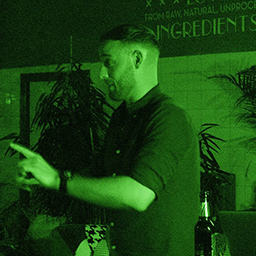
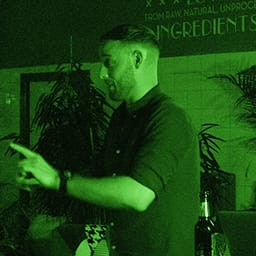
Optimiase images

diff --git a/_layouts/default.html b/_layouts/default.html
@@ -6,6 +6,10 @@
 
   <title>harry.is</title>
 
+  {% if page.main %}
+    <link rel="preload" as="image" href="{{ page.main }}" />
+  {% endif %}
+
   <script>
     LUX=(function(){var a=("undefined"!==typeof(LUX)&&"undefined"!==typeof(LUX.gaMarks)?LUX.gaMarks:[]);var d=("undefined"!==typeof(LUX)&&"undefined"!==typeof(LUX.gaMeasures)?LUX.gaMeasures:[]);var j="LUX_start";var k=window.performance;var l=("undefined"!==typeof(LUX)&&LUX.ns?LUX.ns:(Date.now?Date.now():+(new Date())));if(k&&k.timing&&k.timing.navigationStart){l=k.timing.navigationStart}function f(){if(k&&k.now){return k.now()}var o=Date.now?Date.now():+(new Date());return o-l}function b(n){if(k){if(k.mark){return k.mark(n)}else{if(k.webkitMark){return k.webkitMark(n)}}}a.push({name:n,entryType:"mark",startTime:f(),duration:0});return}function m(p,t,n){if("undefined"===typeof(t)&&h(j)){t=j}if(k){if(k.measure){if(t){if(n){return k.measure(p,t,n)}else{return k.measure(p,t)}}else{return k.measure(p)}}else{if(k.webkitMeasure){return k.webkitMeasure(p,t,n)}}}var r=0,o=f();if(t){var s=h(t);if(s){r=s.startTime}else{if(k&&k.timing&&k.timing[t]){r=k.timing[t]-k.timing.navigationStart}else{return}}}if(n){var q=h(n);if(q){o=q.startTime}else{if(k&&k.timing&&k.timing[n]){o=k.timing[n]-k.timing.navigationStart}else{return}}}d.push({name:p,entryType:"measure",startTime:r,duration:(o-r)});return}function h(n){return c(n,g())}function c(p,o){for(i=o.length-1;i>=0;i--){var n=o[i];if(p===n.name){return n}}return undefined}function g(){if(k){if(k.getEntriesByType){return k.getEntriesByType("mark")}else{if(k.webkitGetEntriesByType){return k.webkitGetEntriesByType("mark")}}}return a}return{mark:b,measure:m,gaMarks:a,gaMeasures:d}})();LUX.ns=(Date.now?Date.now():+(new Date()));LUX.ac=[];LUX.cmd=function(a){LUX.ac.push(a)};LUX.init=function(){LUX.cmd(["init"])};LUX.send=function(){LUX.cmd(["send"])};LUX.addData=function(a,b){LUX.cmd(["addData",a,b])};LUX_ae=[];window.addEventListener("error",function(a){LUX_ae.push(a)});LUX_al=[];if("function"===typeof(PerformanceObserver)&&"function"===typeof(PerformanceLongTaskTiming)){var LongTaskObserver=new PerformanceObserver(function(c){var b=c.getEntries();for(var a=0;a<b.length;a++){var d=b[a];LUX_al.push(d)}});try{LongTaskObserver.observe({type:["longtask"]})}catch(e){}};
   </script>

diff --git a/about.md b/about.md
@@ -2,6 +2,7 @@
 layout: masthead
 title: About Me
 main: /img/content/me.jpg
[1 lines of base64/hex data omitted]
 ---
 
 Pellentesque habitant morbi tristique senectus et netus et malesuada fames ac
